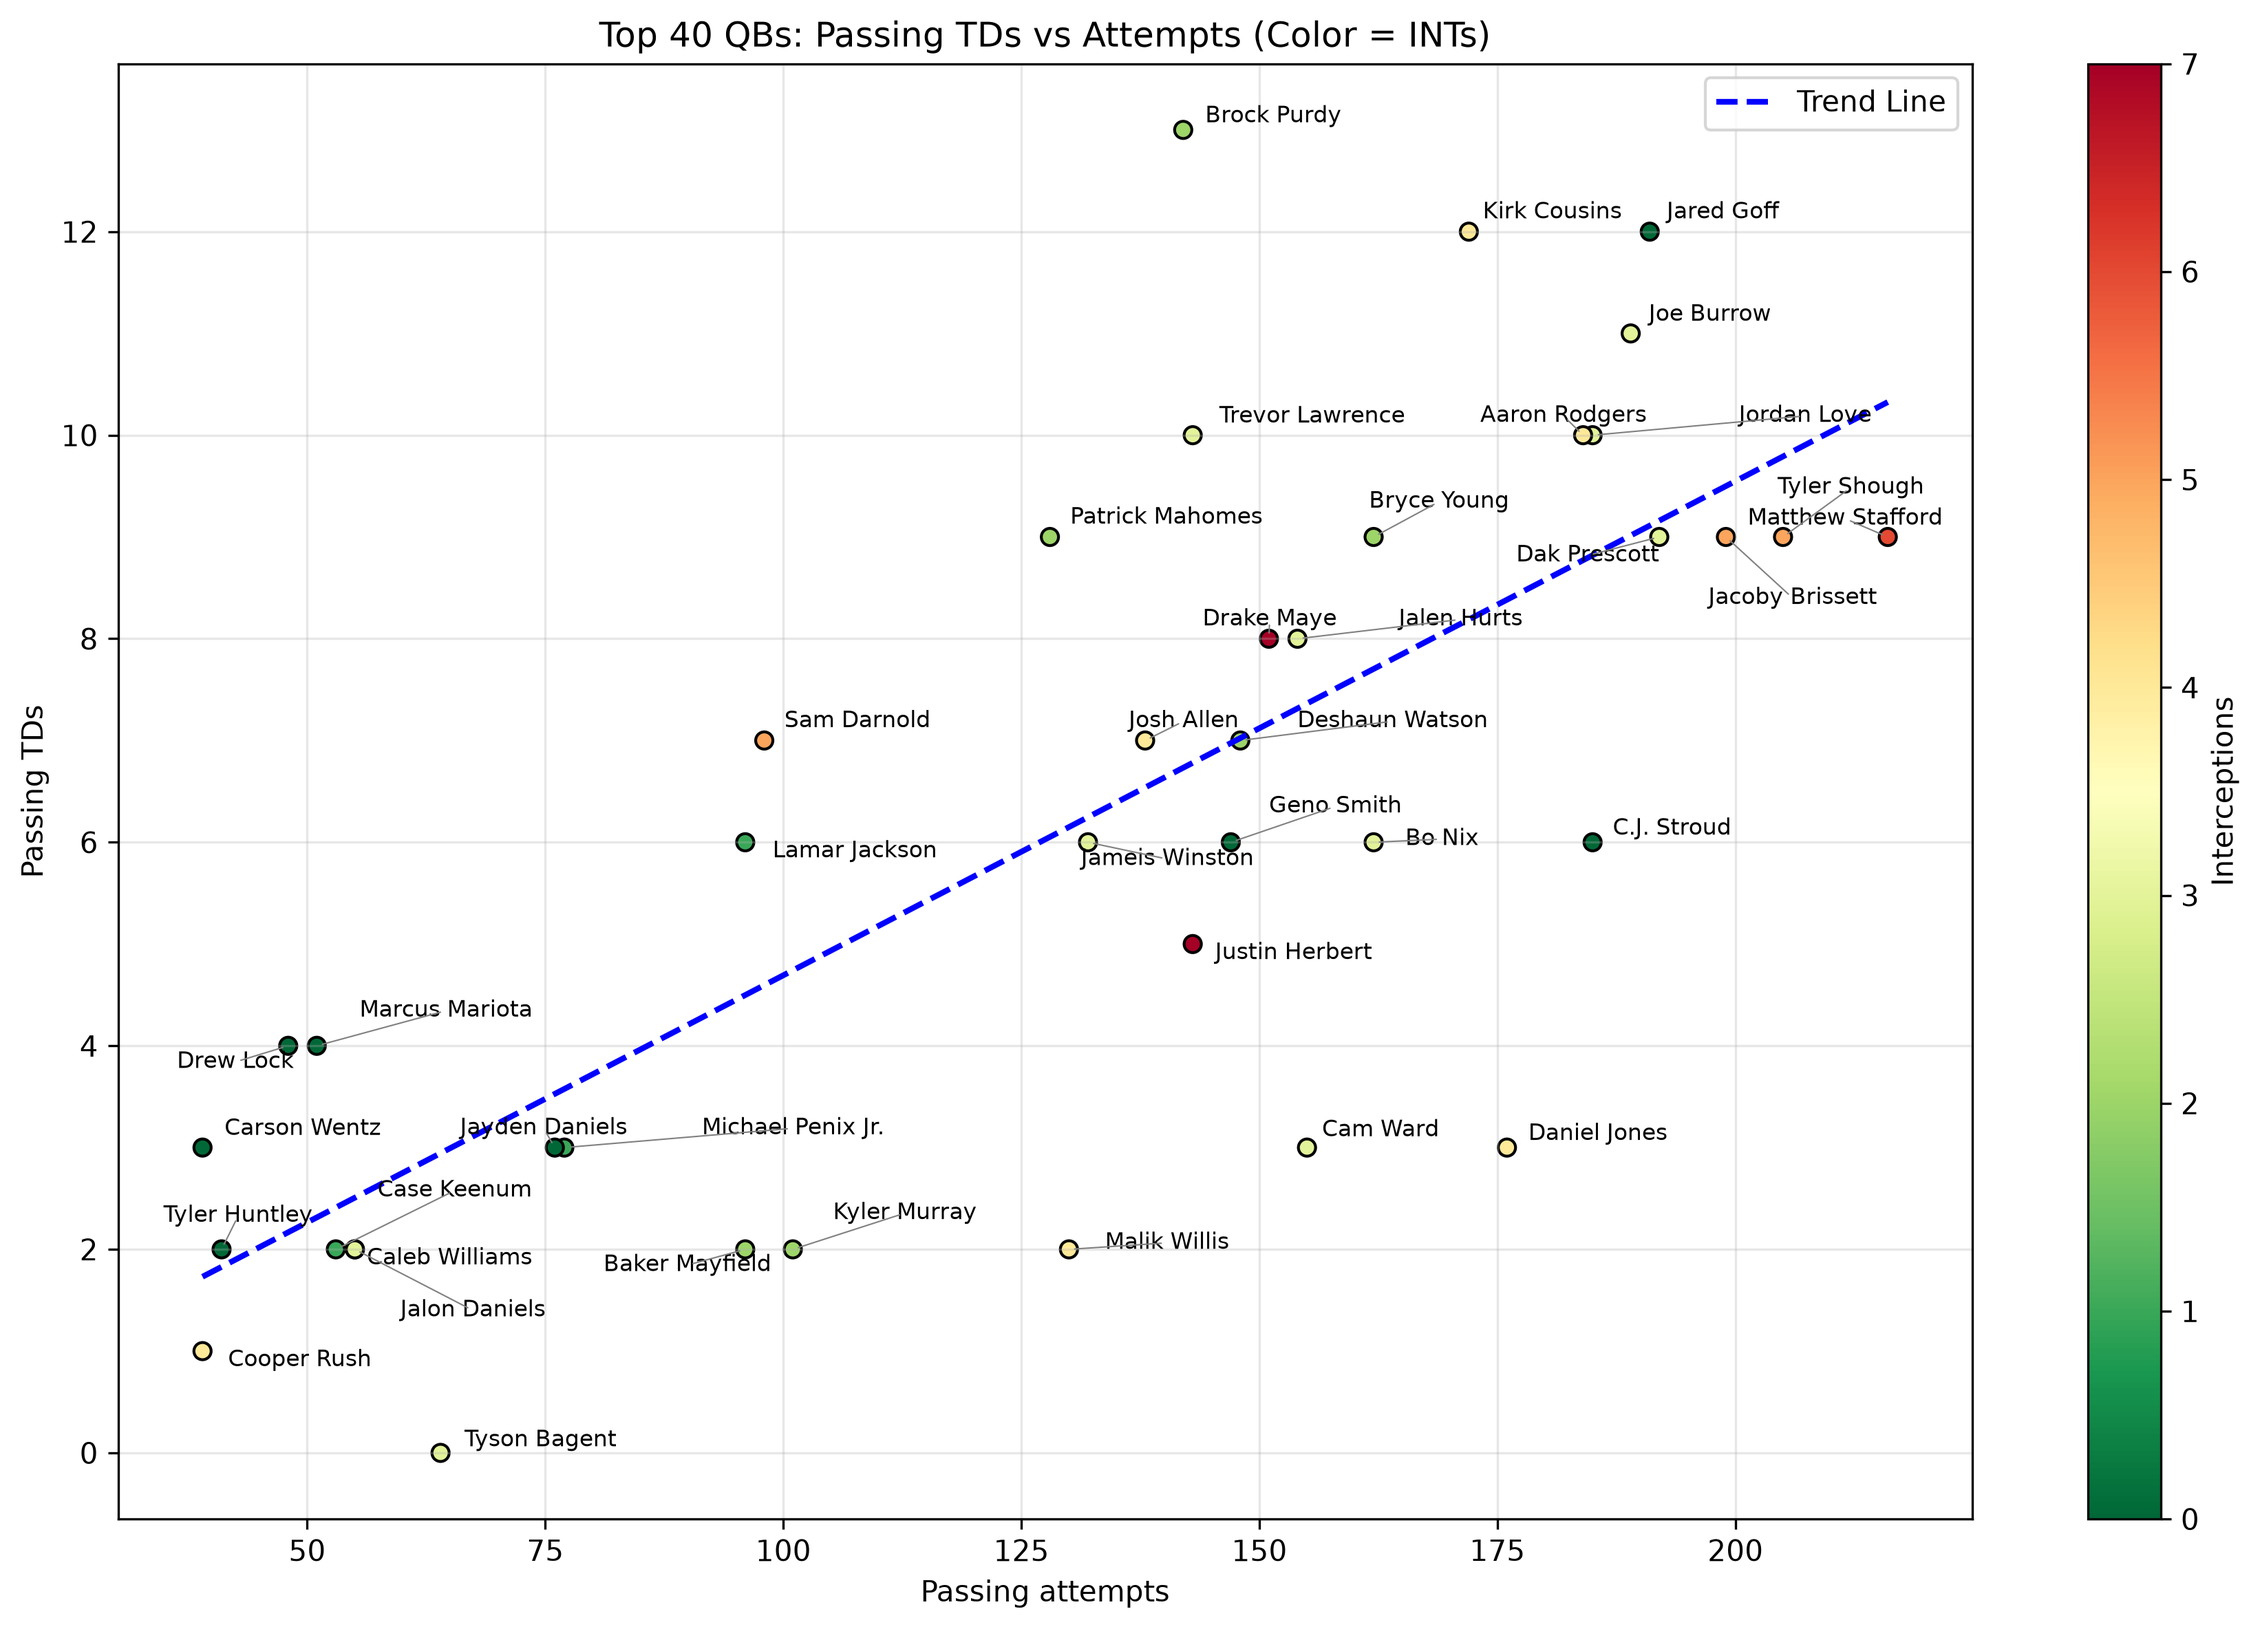
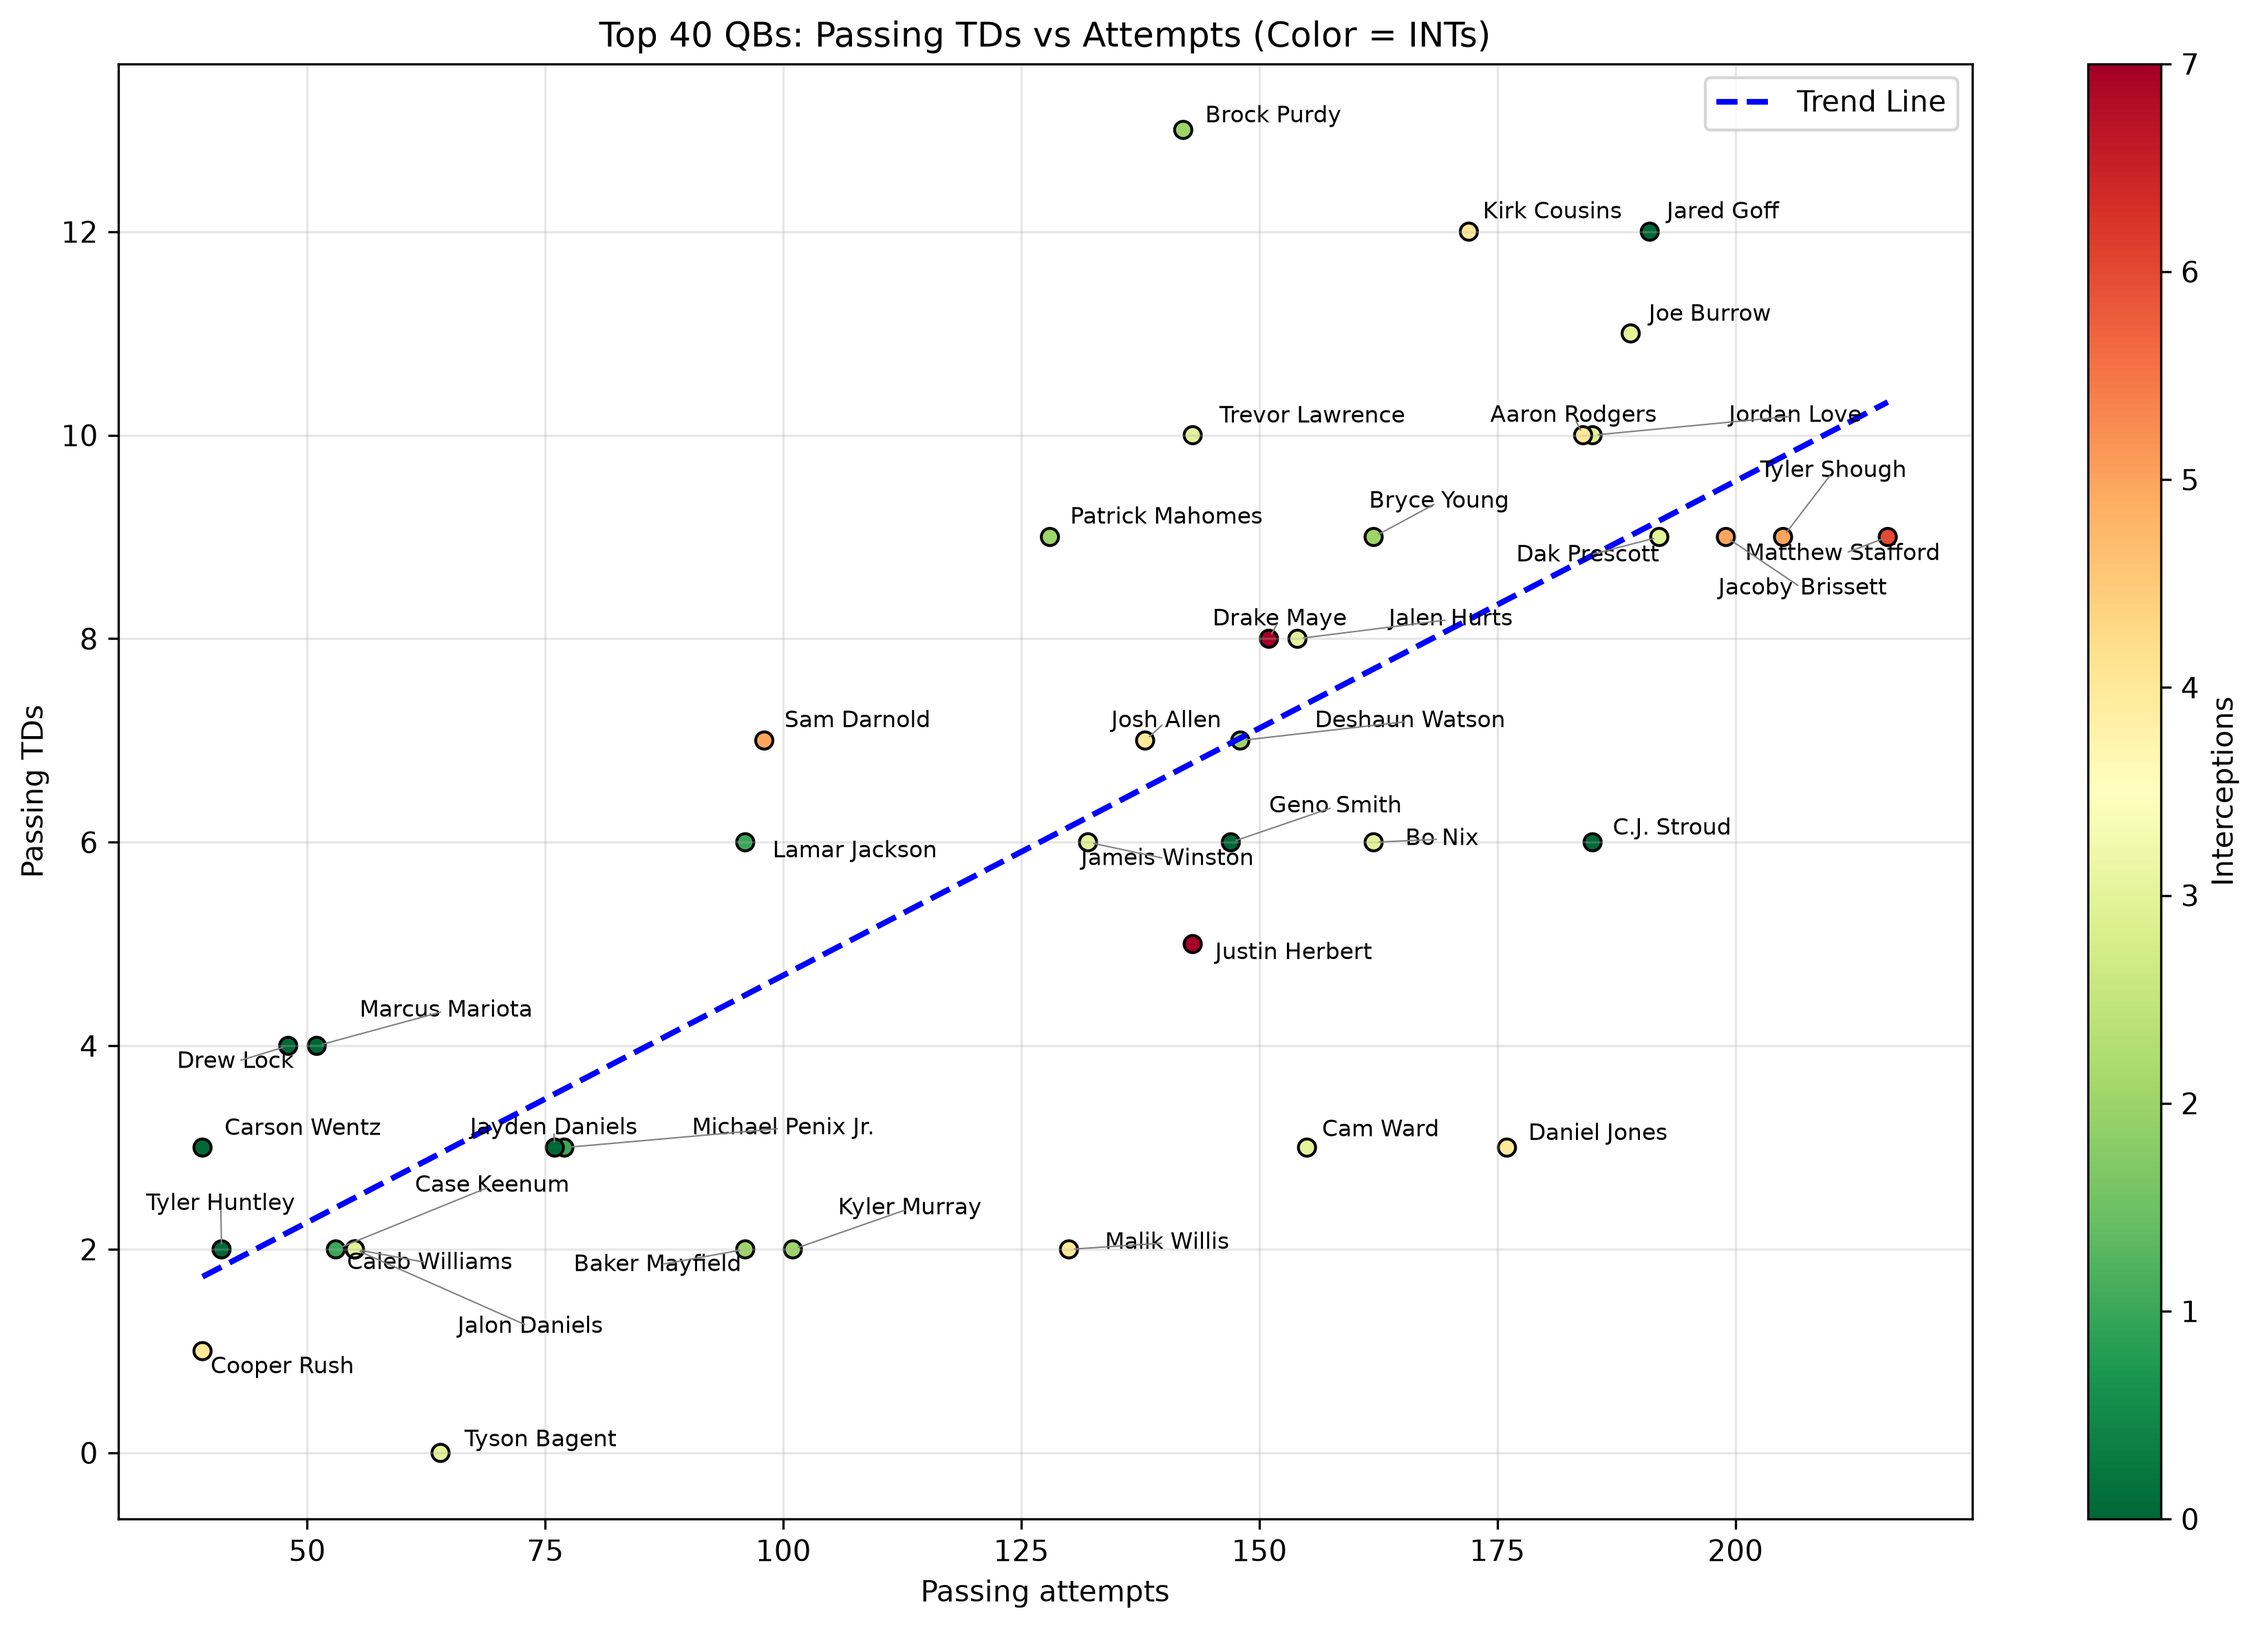
adding comments

diff --git a/Football Projects/qb_efficiency.py b/Football Projects/qb_efficiency.py
@@ -4,6 +4,7 @@ import polars as pl
 import numpy as np
 from adjustText import adjust_text
 
+#load all current stats
 player_stats = (
     nfl.load_player_stats(
         2026,
@@ -12,6 +13,7 @@ player_stats = (
     .filter(pl.col("position") == "QB")
 )
 
+#sort top 40 players in passing attempts
 eff = (
     player_stats
     .sort("attempts", descending=True)
@@ -20,8 +22,10 @@ eff = (
     .to_pandas()
 )
 
+#set size of figure
 plt.figure(figsize=[12, 8])
 
+#initialize scatter plot
 scatter = plt.scatter(
     eff["attempts"],
     eff["passing_tds"],
@@ -30,6 +34,7 @@ scatter = plt.scatter(
     edgecolors="black"
 )
 
+# add interceptions color bar
 plt.colorbar(scatter, label="Interceptions")
 
 x = eff["attempts"]
@@ -39,6 +44,7 @@ m, b = np.polyfit(x, y, 1)
 
 x_sorted = np.sort(x)
 
+#add trend line
 plt.plot(
 x_sorted,
     m*x_sorted + b,
@@ -50,6 +56,7 @@ x_sorted,
 
 texts = []
 
+#add player names
 for _, row in eff.iterrows():
     texts.append(
         plt.text(
@@ -60,6 +67,7 @@ for _, row in eff.iterrows():
         )
     )
 
+#adjust player names so they aren't on top of each other
 adjust_text(
     texts,
     expand_points=(2.5, 2.5),
@@ -73,6 +81,7 @@ adjust_text(
     )
 )
 
+#put labels
 plt.xlabel("Passing attempts")
 plt.ylabel("Passing TDs")
 plt.title("Top 40 QBs: Passing TDs vs Attempts (Color = INTs)")

diff --git a/Football Projects/stats_leaders.py b/Football Projects/stats_leaders.py
@@ -1,8 +1,10 @@
 #this is my first nfl program
 import nflreadpy as nfl
 
+#load player stats
 player_stats = nfl.load_player_stats()
 
+#sort players by passing yards with their name and yards
 passing_yd_leaders = (
     player_stats
     .sort("passing_yards", descending=True)
@@ -10,6 +12,7 @@ passing_yd_leaders = (
     .head(10)
 )
 
+#sort players by passing tds with their name and tds
 passing_td_leaders = (
     player_stats
     .sort("passing_tds", descending=True)
@@ -17,6 +20,7 @@ passing_td_leaders = (
     .head(10)
 )
 
+#sort players by rushing yards with their name and yards
 rushing_yd_leaders = (
     player_stats
     .sort("rushing_yards", descending=True)
@@ -24,6 +28,7 @@ rushing_yd_leaders = (
     .head(10)
 )
 
+#sort players by rushing tds with their name and tds
 rushing_td_leaders = (
     player_stats
     .sort("rushing_tds", descending=True)
@@ -31,6 +36,7 @@ rushing_td_leaders = (
     .head(10)
 )
 
+#print all tables
 print(passing_yd_leaders)
 print(passing_td_leaders)
 print(rushing_yd_leaders)

diff --git a/Football Projects/td_int_graph.py b/Football Projects/td_int_graph.py
@@ -1,11 +1,13 @@
 import matplotlib.pyplot as plt
 import nflreadpy as nfl
 
+#load player stats
 player_stats = nfl.load_player_stats(
     2025,
     summary_level="reg"
 )
 
+#get top ten passing td leadesr from 2025
 td_int = (
     player_stats
     .sort("passing_tds", descending=True)
@@ -14,13 +16,17 @@ td_int = (
     .to_pandas()
 )
 
+#set graph size
 plt.figure(figsize=(12, 8))
 
+
+#initialize scatter plot
 plt.scatter(
     td_int["passing_interceptions"],
     td_int["passing_tds"],
 )
 
+#add player names
 for _, row in td_int.iterrows():
     plt.annotate(
         row["player_display_name"],
@@ -28,6 +34,7 @@ for _, row in td_int.iterrows():
         fontsize=12,
     )
 
+#add labels
 plt.xlabel("Interceptions")
 plt.ylabel("TDs")
 plt.title("2025 TD-INT Ratio")
